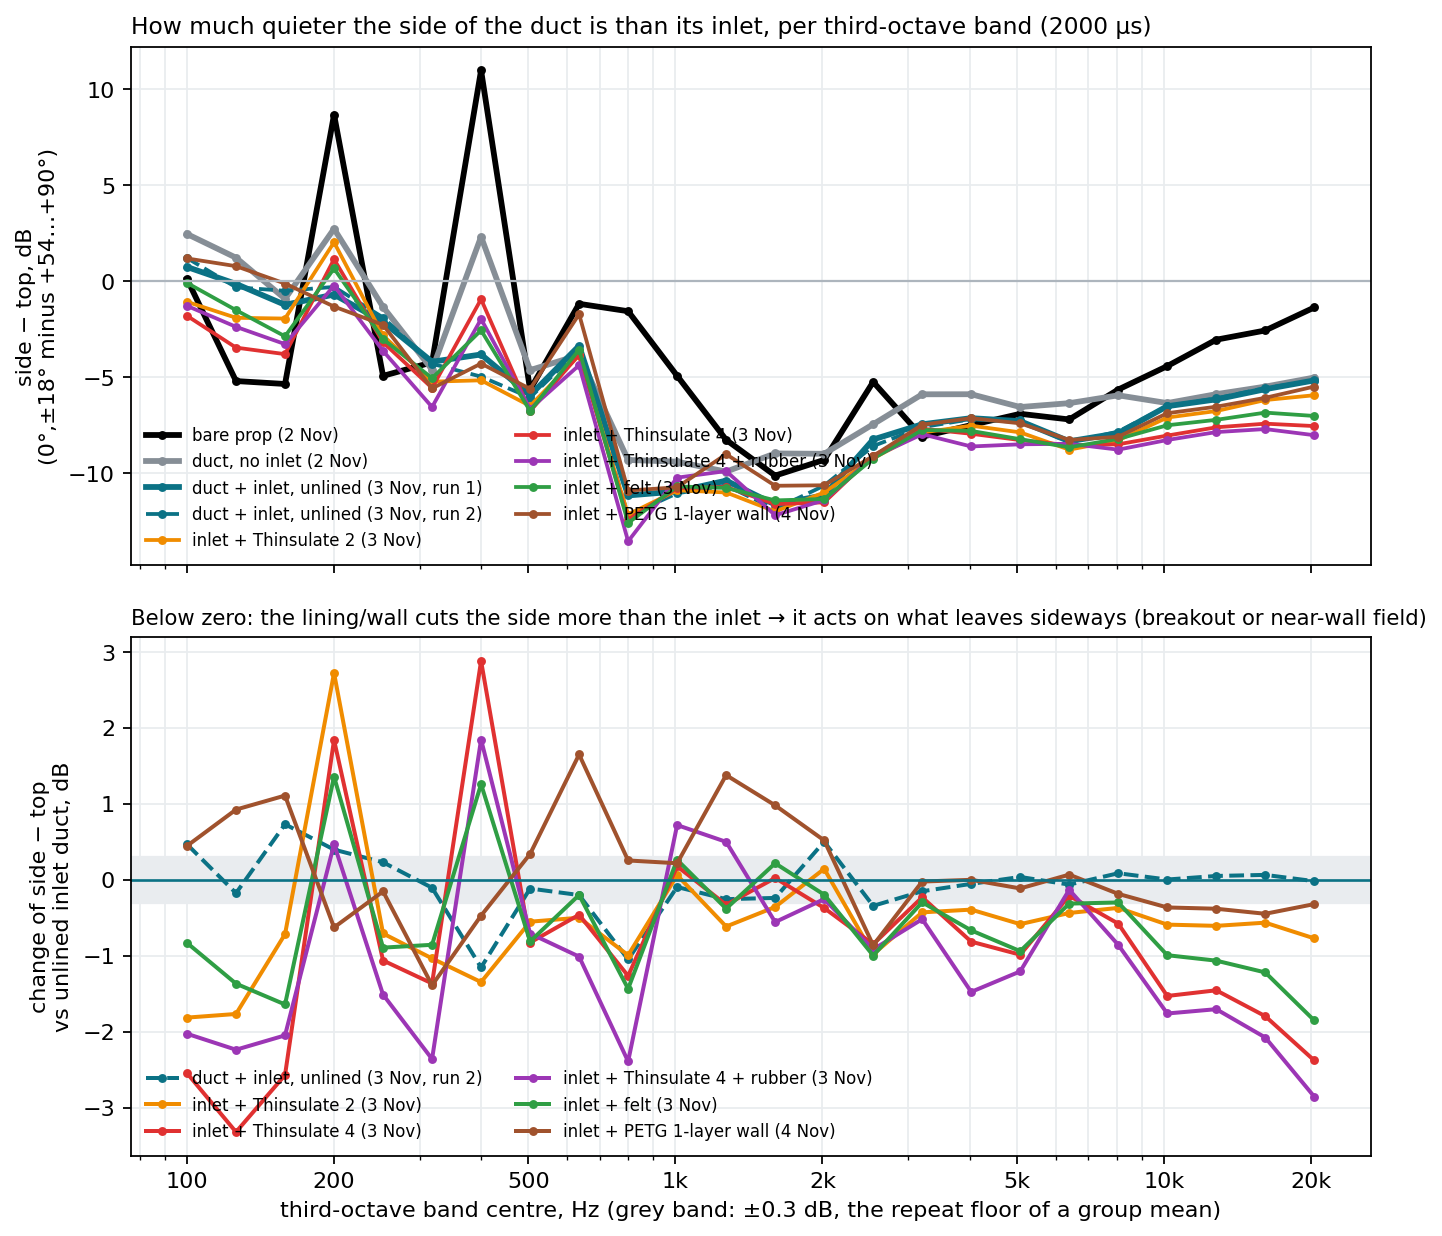
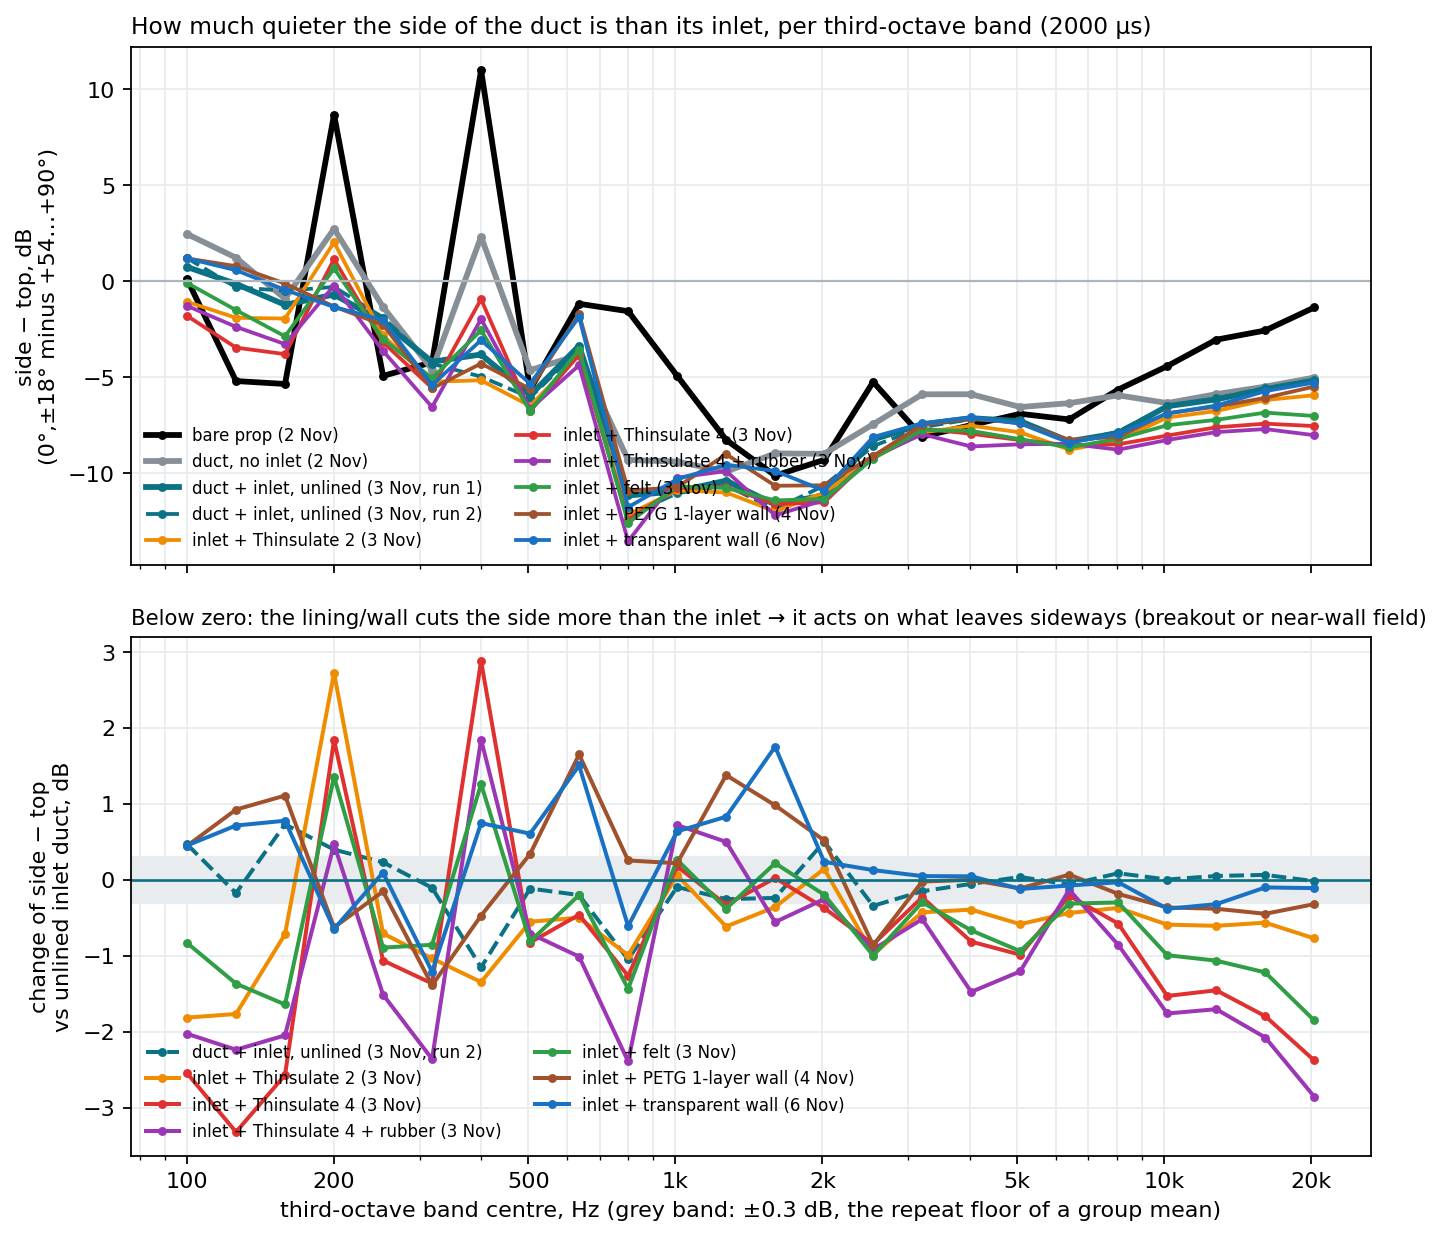
r27: inlet + transparent wall (6 Nov) in the heatmap and side-vs-top figures

diff --git a/docs/analysis/chamber-final-2026-10-01/slides/make_r27_heatmap.py b/docs/analysis/chamber-final-2026-10-01/slides/make_r27_heatmap.py
@@ -38,6 +38,14 @@ MODES = {   # out file, day, {key: base}, panels, title
              [('PETG wall effect:  [inlet + PETG 1-layer wall, 4 Nov]  minus  [inlet, unlined, latest run, 3 Nov]   (crosses days)', 'petg'),
               ('Repeat floor:  [inlet, unlined, run 1]  minus  [run 2]   (3 Nov, nothing changed)', 'ref_b')],
              'r27 duct WITH the inlet, 2000 µs: PETG wall (4 Nov) against the unlined inlet duct (3 Nov)'),
+    'transp': ('heatmap-r27-inlet-transparent-wall.png', '2026-11-03',
+               {'ref': I + '-trial-2026-11-03', 'ref_b': I,
+                'tw': ('axi2217__8in__inlet-transparent-wall__r27-inlet-transparent-wall', '2026-11-06'),
+                'petg': ('axi2217__8in__inlet-petg-1-layer__r27-inlet-petg-1-layer', '2026-11-04')},
+               [('Transparent wall effect:  [inlet + transparent wall, 6 Nov]  minus  [inlet, unlined, latest run, 3 Nov]   (crosses days)', 'tw'),
+                ('PETG wall effect:  [inlet + PETG 1-layer wall, 4 Nov]  minus  [inlet, unlined, latest run, 3 Nov]   (crosses days)', 'petg'),
+                ('Repeat floor:  [inlet, unlined, run 1]  minus  [run 2]   (3 Nov, nothing changed)', 'ref_b')],
+               'r27 duct WITH the inlet, 2000 µs: transparent wall (6 Nov) and PETG wall (4 Nov) against the unlined inlet duct (3 Nov)'),
 }
 FC = np.array([100 * 2 ** (i / 3) for i in range(24)])          # 100 Hz .. 20 kHz
 LAB = [f'{f/1000:g}k' if f >= 1000 else f'{f:.0f}' for f in [100, 125, 160, 200, 250, 315, 400, 500, 630, 800, 1000, 1250, 1600, 2000, 2500, 3150, 4000, 5000, 6300, 8000, 10000, 12500, 16000, 20000]]

diff --git a/docs/analysis/chamber-final-2026-10-01/slides/make_r27_wall.py b/docs/analysis/chamber-final-2026-10-01/slides/make_r27_wall.py
@@ -29,6 +29,7 @@ SETS = [  # key, label, base, day, colour, style
     ('thin4r', 'inlet + Thinsulate 4 + rubber (3 Nov)', 'axi2217__8in__inlet-thinsulate-4-layers-rubber__r27-inlet-thinsulate-4-layers-rubber', '2026-11-03', '#9C36B5', '-'),
     ('felt', 'inlet + felt (3 Nov)', 'axi2217__8in__inlet-felt__r27-inlet-felt', '2026-11-03', '#2F9E44', '-'),
     ('petg', 'inlet + PETG 1-layer wall (4 Nov)', 'axi2217__8in__inlet-petg-1-layer__r27-inlet-petg-1-layer', '2026-11-04', '#A0522D', '-'),
+    ('tw', 'inlet + transparent wall (6 Nov)', 'axi2217__8in__inlet-transparent-wall__r27-inlet-transparent-wall', '2026-11-06', '#1971C2', '-'),
 ]
 FC = np.array([100 * 2 ** (i / 3) for i in range(24)])
 SIDE, TOP = (0, 18, -18), (54, 72, 90)
